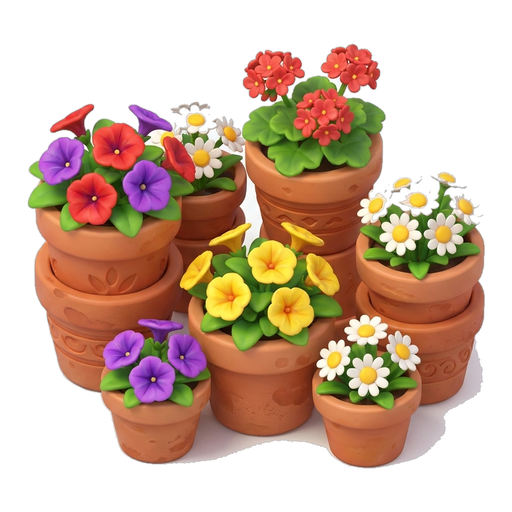
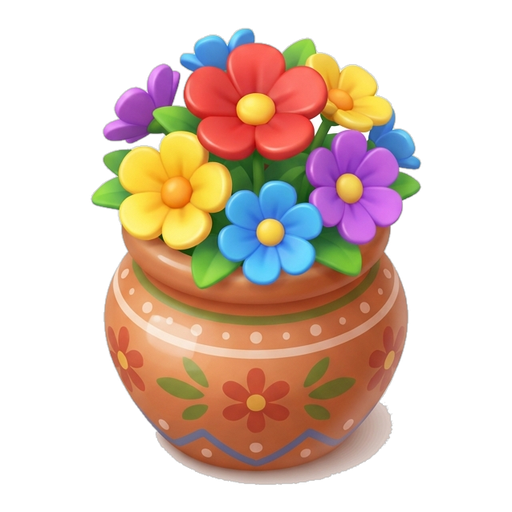
Reward fixes: SVG fountain, single flower pot, wearable cap
- Fountain: revert to original code-drawn SVG (drop from image registry)
- Flower Pots: replace multi-pot asset with a single decorative pot
- Cap: add 'cap' EquipKey + baseball-cap avatar overlay so wearing the
  Cap actually puts it on the avatar's head (was a no-op before)

diff --git a/src/components/avatar/AvatarFigure.tsx b/src/components/avatar/AvatarFigure.tsx
@@ -407,6 +407,21 @@ function Equip({ s, equipped }: { s: AvatarStyle; equipped: EquipKey[] }) {
           <Rect x={31} y={115} width={10.2} height={2} rx={1} fill="#C53B32" />
         </G>
       )}
+      {/* Baseball Cap — navy crown + brim, sits on top of the hair */}
+      {has('cap') && (
+        <G>
+          {/* crown */}
+          <Path d="M 20.4 16 Q 19 5.2 32 4.8 Q 45 5.2 43.6 16 Q 38 11.2 32 11.2 Q 26 11.2 20.4 16 Z" fill="#21386E" />
+          {/* right-side shading for volume */}
+          <Path d="M 32 4.8 Q 45 5.2 43.6 16 Q 38 11.4 32 11.2 Z" fill="#18294F" opacity={0.55} />
+          {/* white front panel accent */}
+          <Path d="M 26.6 12 Q 32 10.4 37.4 12 L 36.2 15.2 Q 32 13.8 27.8 15.2 Z" fill="#EDF1F7" opacity={0.92} />
+          {/* brim pointing forward */}
+          <Path d="M 20.6 15.4 Q 32 24 43.4 15.4 Q 37.6 18.8 32 19.2 Q 26.4 18.8 20.6 15.4 Z" fill="#16264A" />
+          {/* top button */}
+          <Circle cx={32} cy={5} r={1.1} fill="#16264A" />
+        </G>
+      )}
       {/* Sunglasses over the eyes */}
       {has('sunglasses') && (
         <G>

diff --git a/src/components/rewards/placedObjects/rewardImages.ts b/src/components/rewards/placedObjects/rewardImages.ts
@@ -13,7 +13,7 @@ export const REWARD_IMAGES: Record<string, number> = {
   // ── Garden ──
   pet_dog: require('../../../assets/rewards/pet_dog.png'),
   pet_cat: require('../../../assets/rewards/pet_cat.png'),
-  fountain: require('../../../assets/rewards/fountain.png'),
+  // fountain intentionally uses the original code-drawn SVG (PlacedFountain)
   slide: require('../../../assets/rewards/slide.png'),
   flower_pots: require('../../../assets/rewards/flower_pots.png'),
   // ── Home ──

diff --git a/src/data/lifestyleRewards.ts b/src/data/lifestyleRewards.ts
@@ -14,7 +14,7 @@ export const LIFESTYLE_REWARDS: RewardItem[] = [
   // First 5 are premium AI assets (spec sequence): Sunglasses, Shoes, Cap, Backpack, Laptop Bag.
   { id: 'lifestyle_01', category: 'lifestyle', name: 'Sunglasses', icon: '🕶️', imageKey: 'sunglasses', unlockLevel: 1, isEquippable: true, equipKey: 'sunglasses' },
   { id: 'lifestyle_04', category: 'lifestyle', name: 'Sneakers', icon: '👟', imageKey: 'sneakers', unlockLevel: 2, isEquippable: true, equipKey: 'shoes' },
-  { id: 'lifestyle_11', category: 'lifestyle', name: 'Cap', icon: '🧢', imageKey: 'cap', unlockLevel: 3, isEquippable: true },
+  { id: 'lifestyle_11', category: 'lifestyle', name: 'Cap', icon: '🧢', imageKey: 'cap', unlockLevel: 3, isEquippable: true, equipKey: 'cap' },
   { id: 'lifestyle_02', category: 'lifestyle', name: 'Backpack', icon: '🎒', imageKey: 'backpack', unlockLevel: 4, isEquippable: true, equipKey: 'backpack' },
   { id: 'lifestyle_07', category: 'lifestyle', name: 'Laptop Bag', icon: '💼', imageKey: 'laptop_bag', unlockLevel: 5, isEquippable: true },
   { id: 'lifestyle_03', category: 'lifestyle', name: 'Watch', icon: '⌚', imageKey: 'watch', unlockLevel: 6, isEquippable: true },

diff --git a/src/data/rewards.ts b/src/data/rewards.ts
@@ -46,7 +46,7 @@ export interface Reward {
 }
 
 /** Overlay keys the avatar can wear (Part 7 — Equip system). */
-export type EquipKey = 'shoes' | 'backpack' | 'sunglasses' | 'jacket';
+export type EquipKey = 'shoes' | 'backpack' | 'sunglasses' | 'jacket' | 'cap';
 
 export const REWARDS: Reward[] = [
   { id: 1, levelRequired: 1, name: 'New Shoes', category: 'outfit', icon: '👟', description: 'Fresh kicks for your avatar.', placementArea: 'wardrobe', equipKey: 'shoes' },